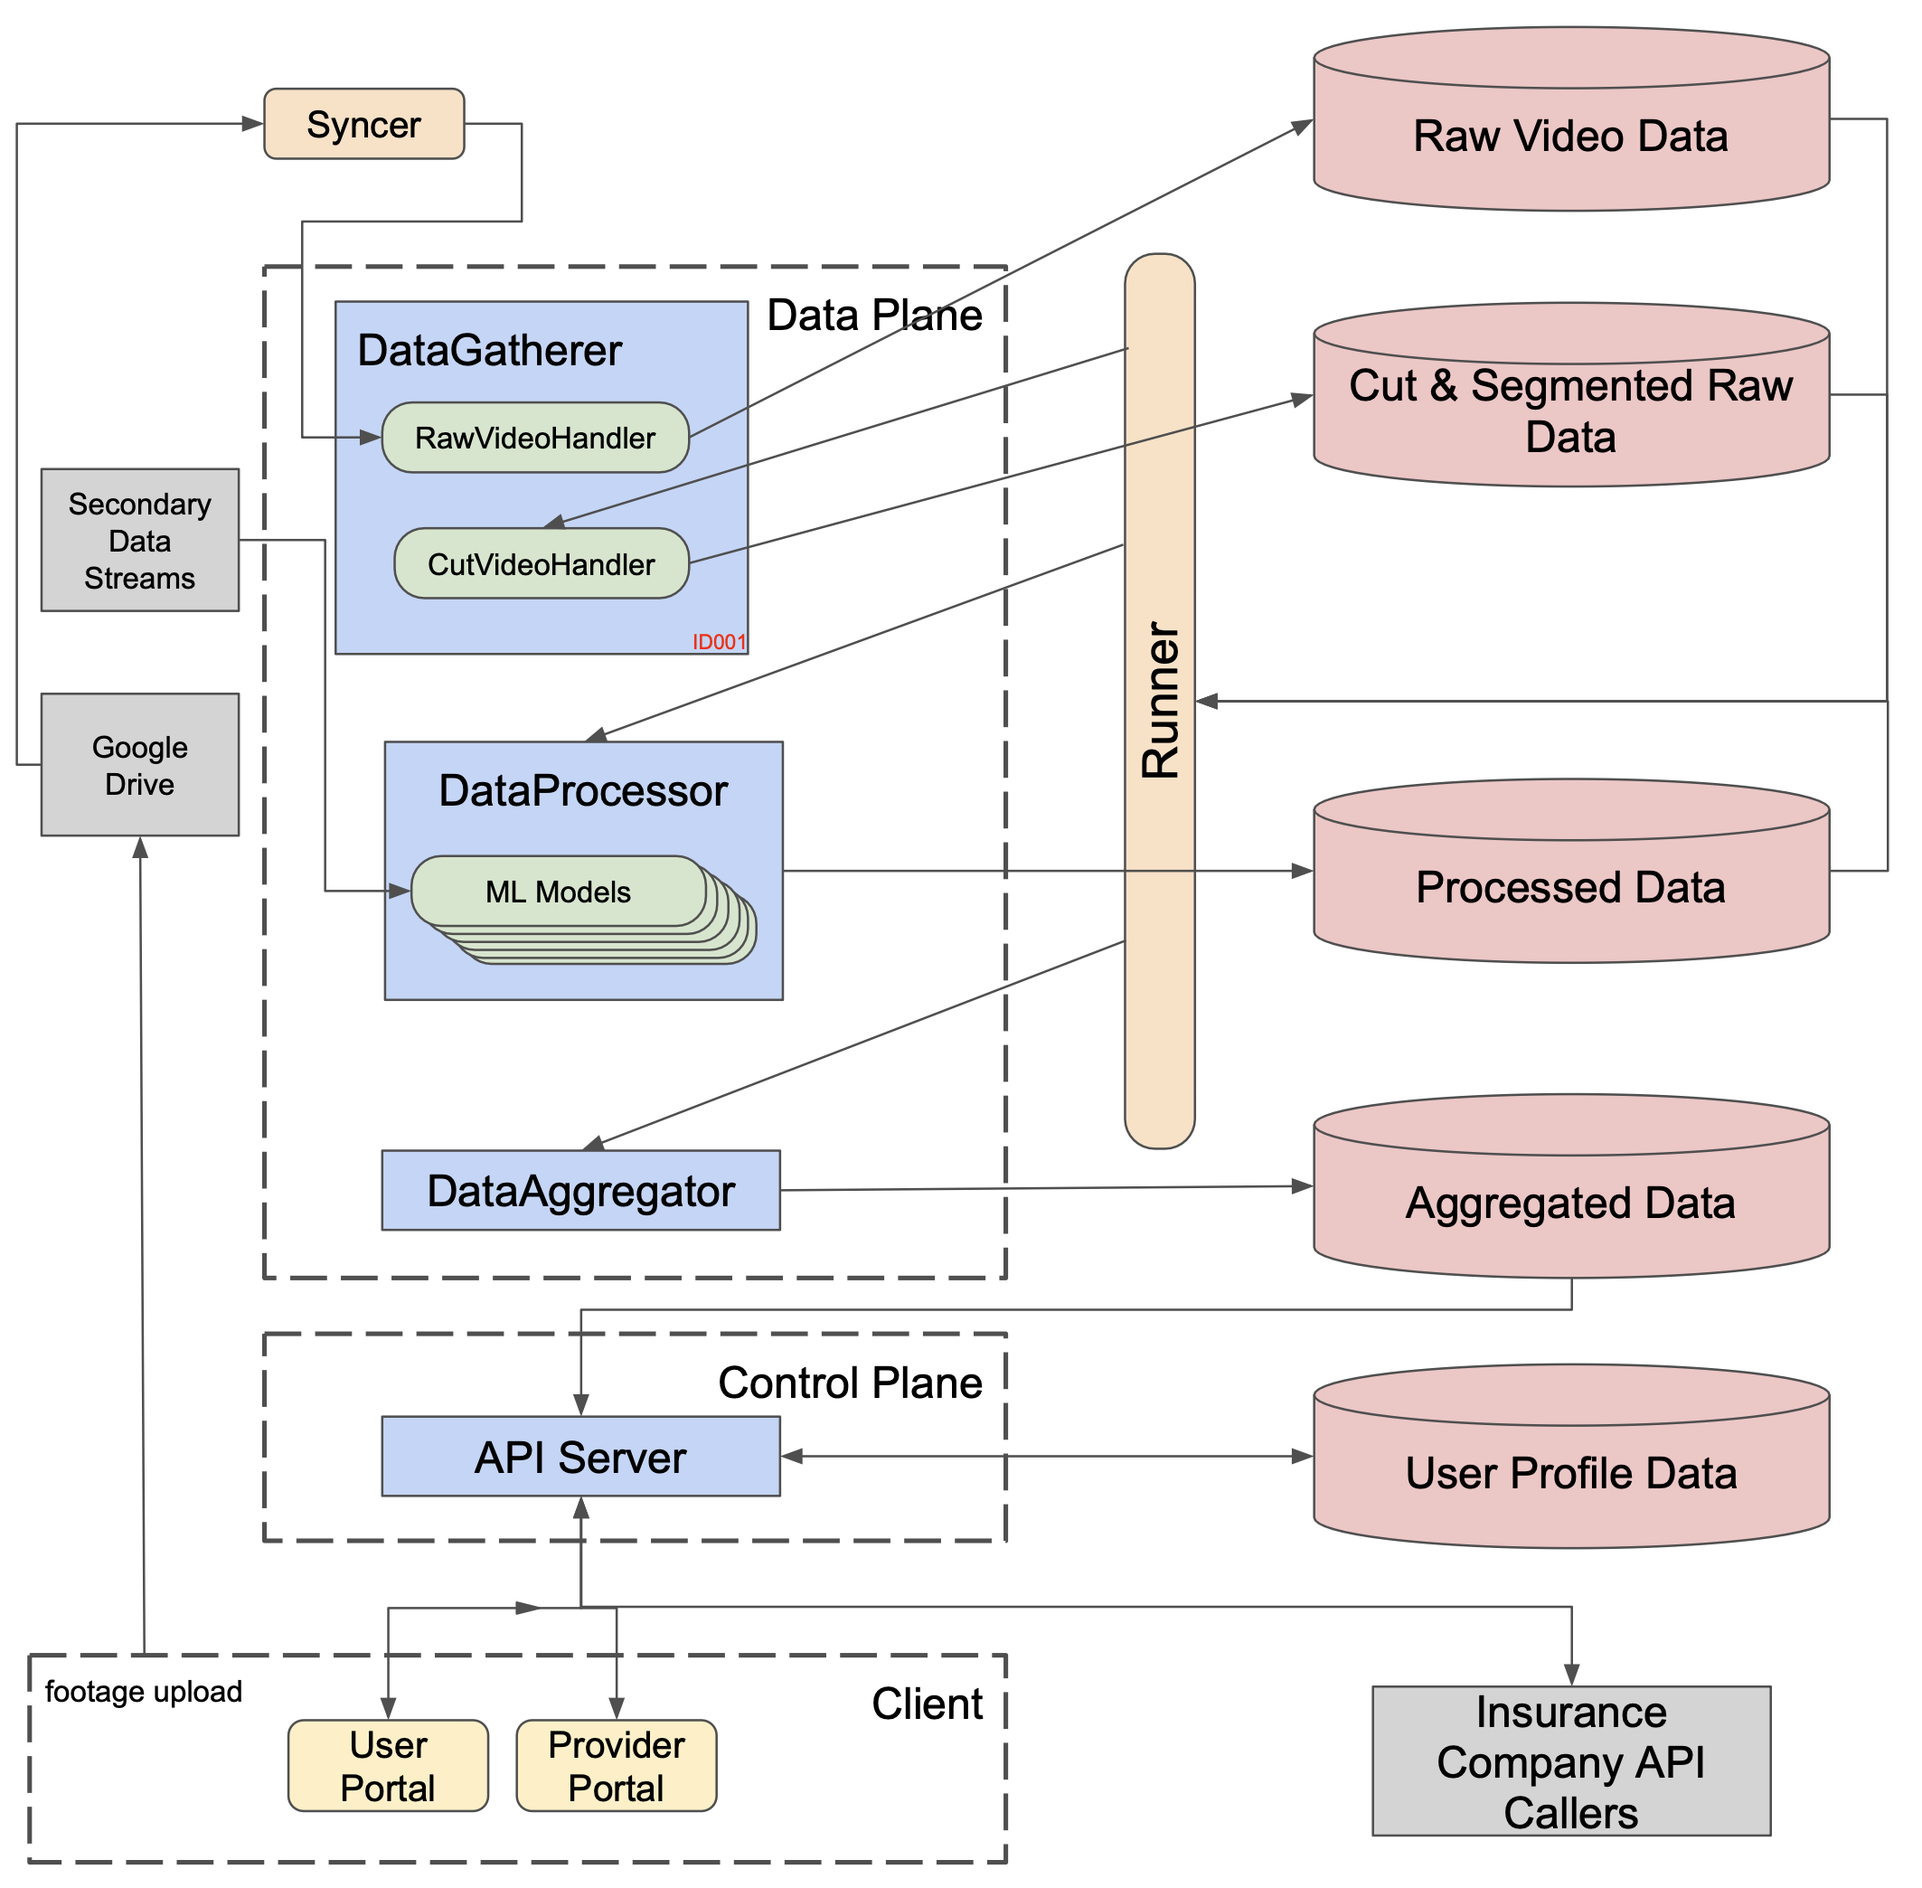
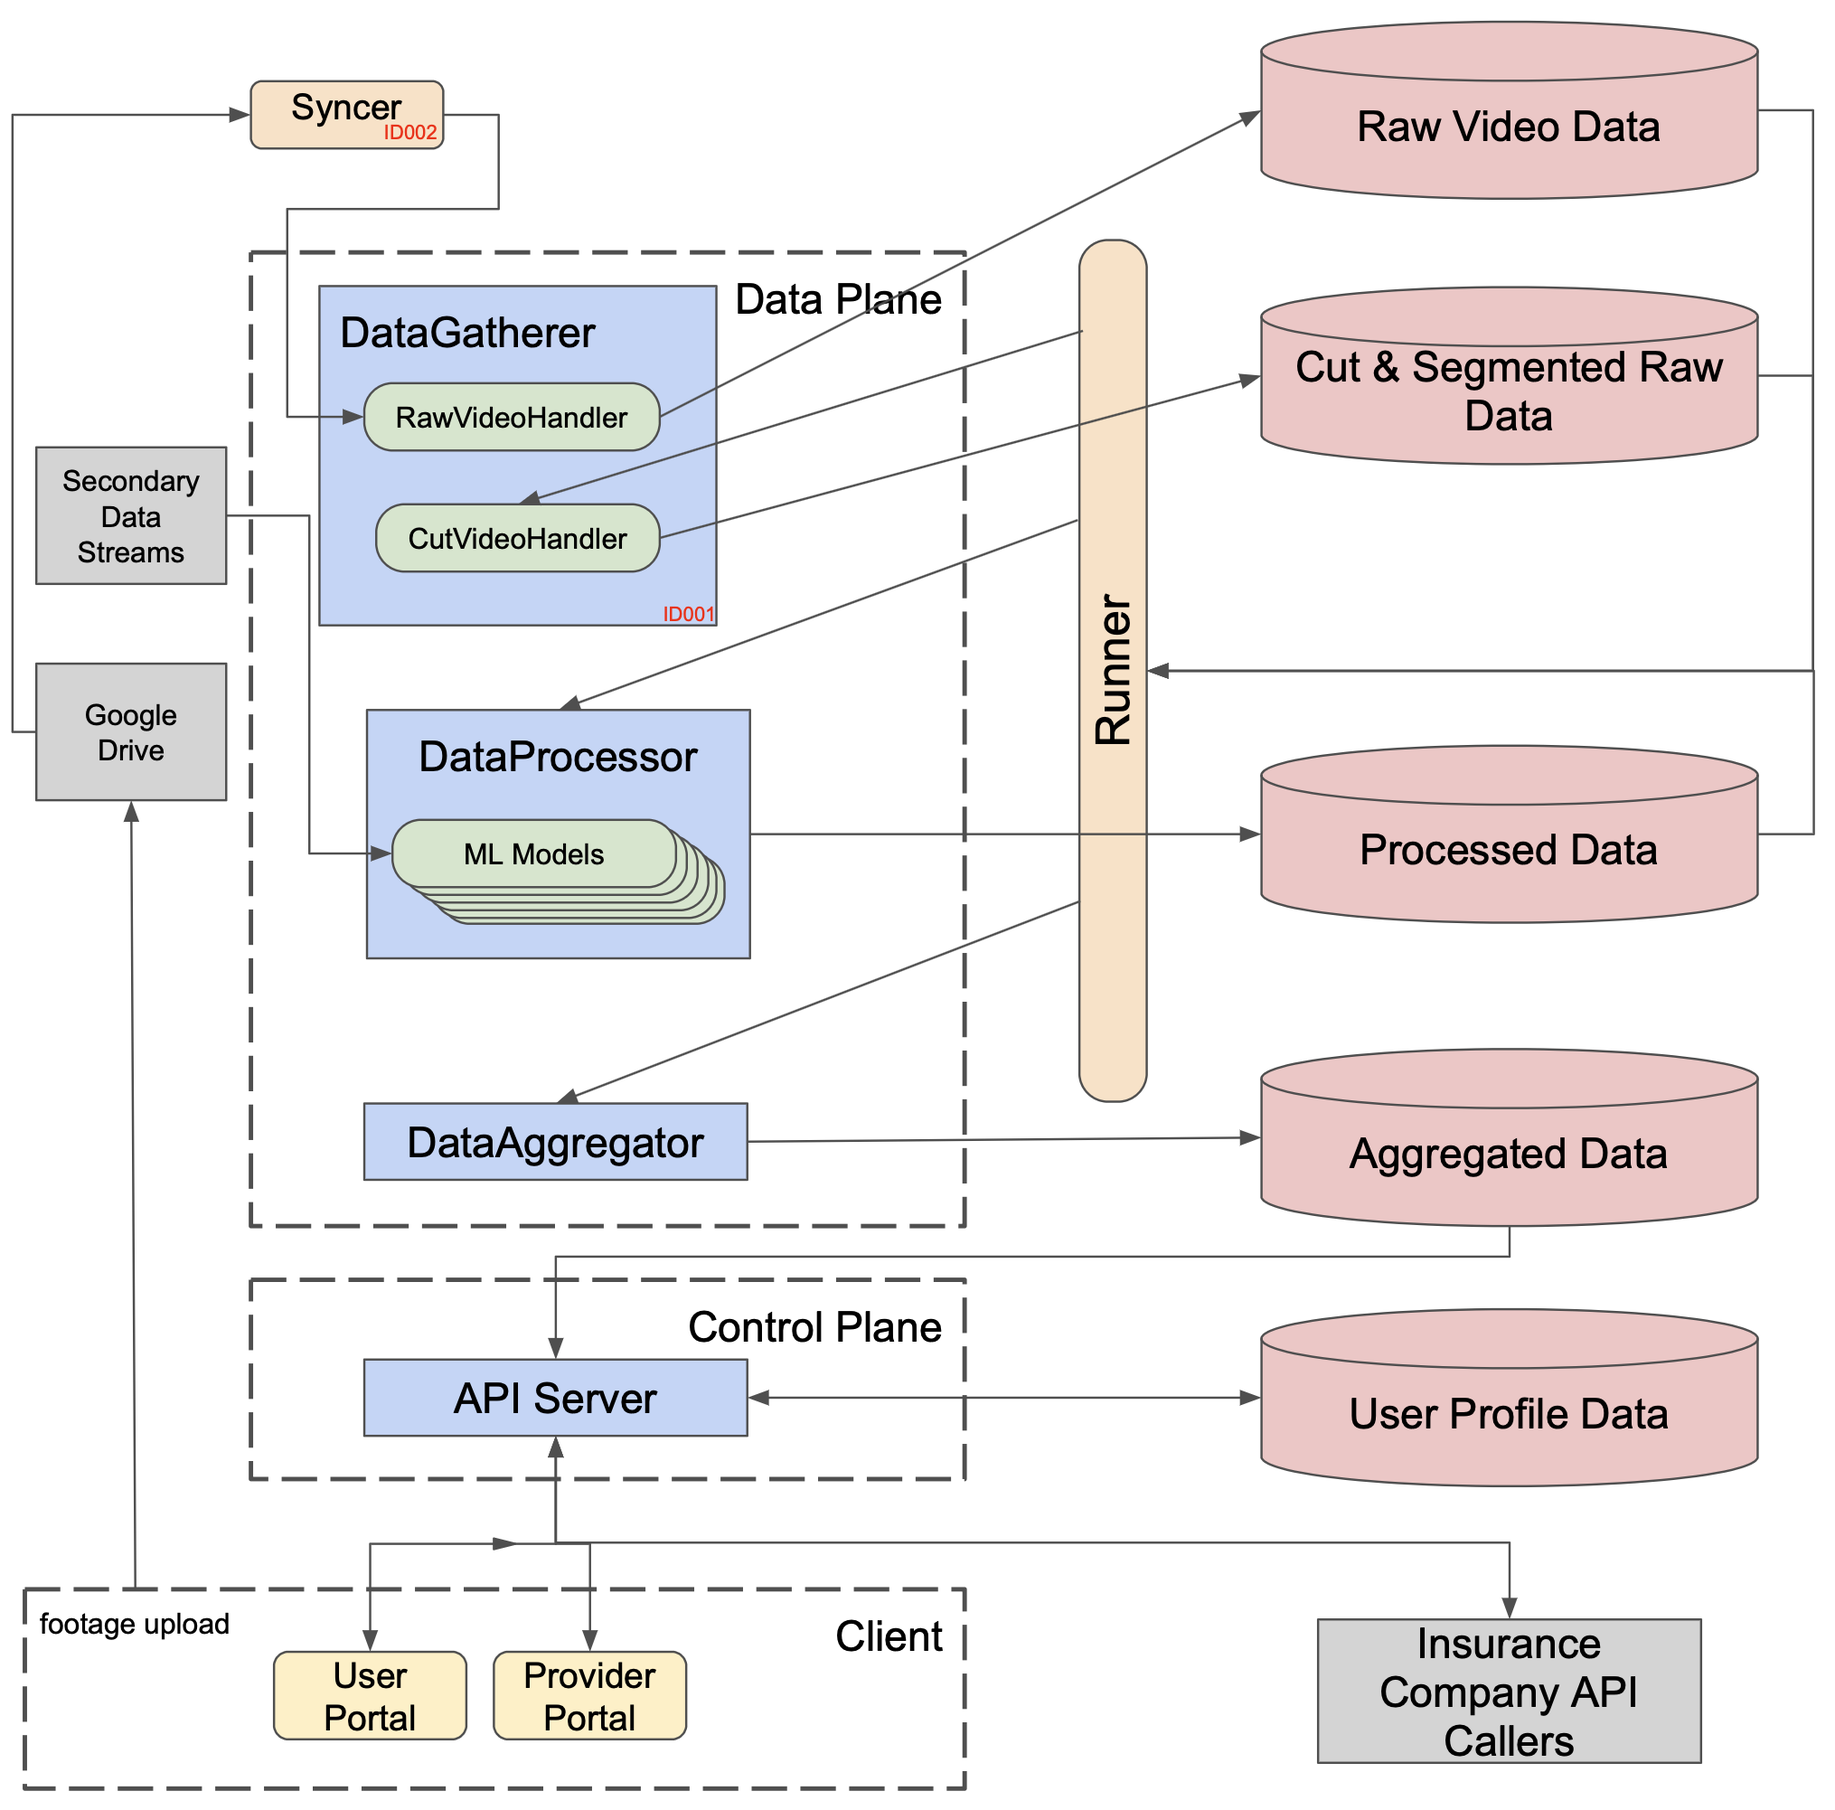
update architecture screenshot (#73)

diff --git a/README.md b/README.md
@@ -8,7 +8,8 @@ Seneca.AI/seneca implements all of the infrastucture for this application, aside
 ### Architecture
 ![architecture](./docs/architecture.png)
 #### Code Locations
-* ID001: cmd/datagatherer
+* ID001: internal/datagatherer
+* ID002: internal/syncer
 
 ## Dev Help
 
